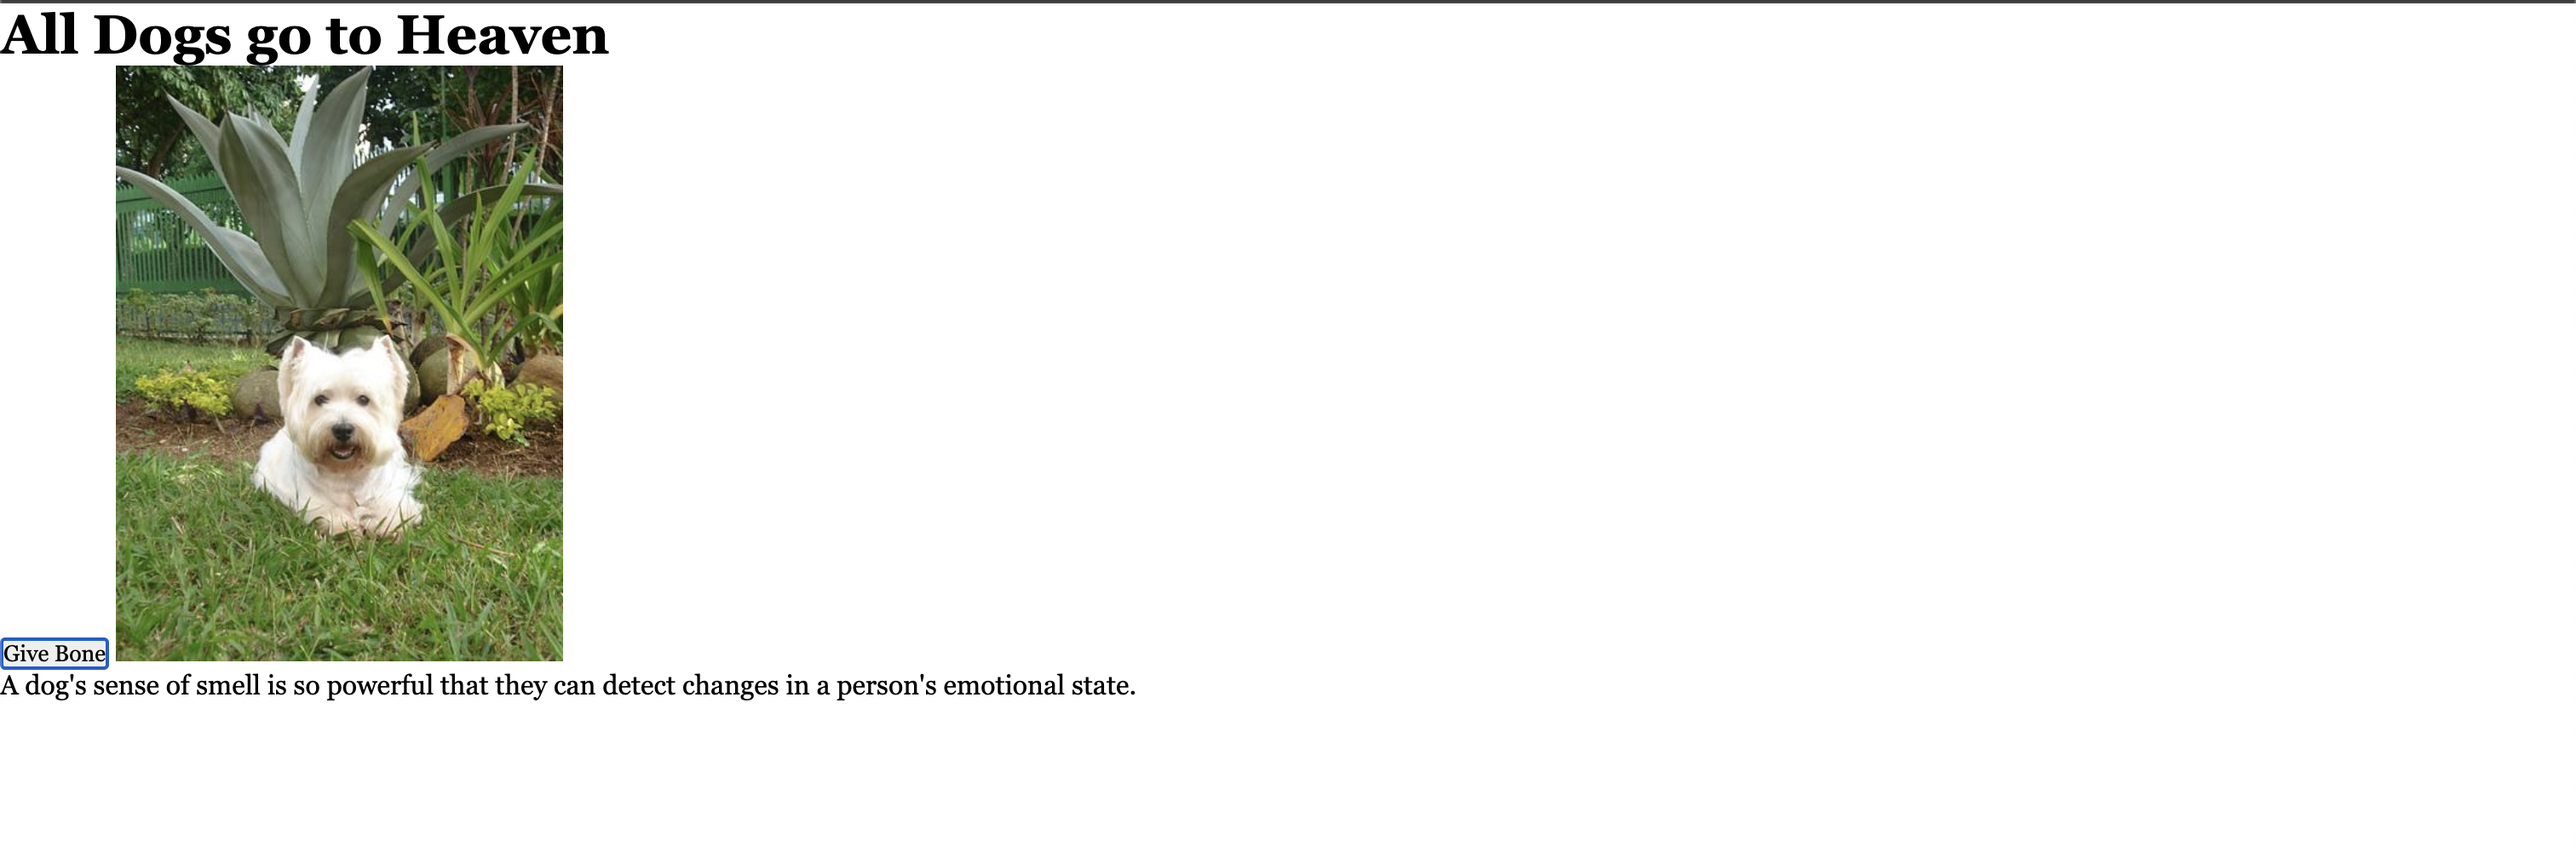
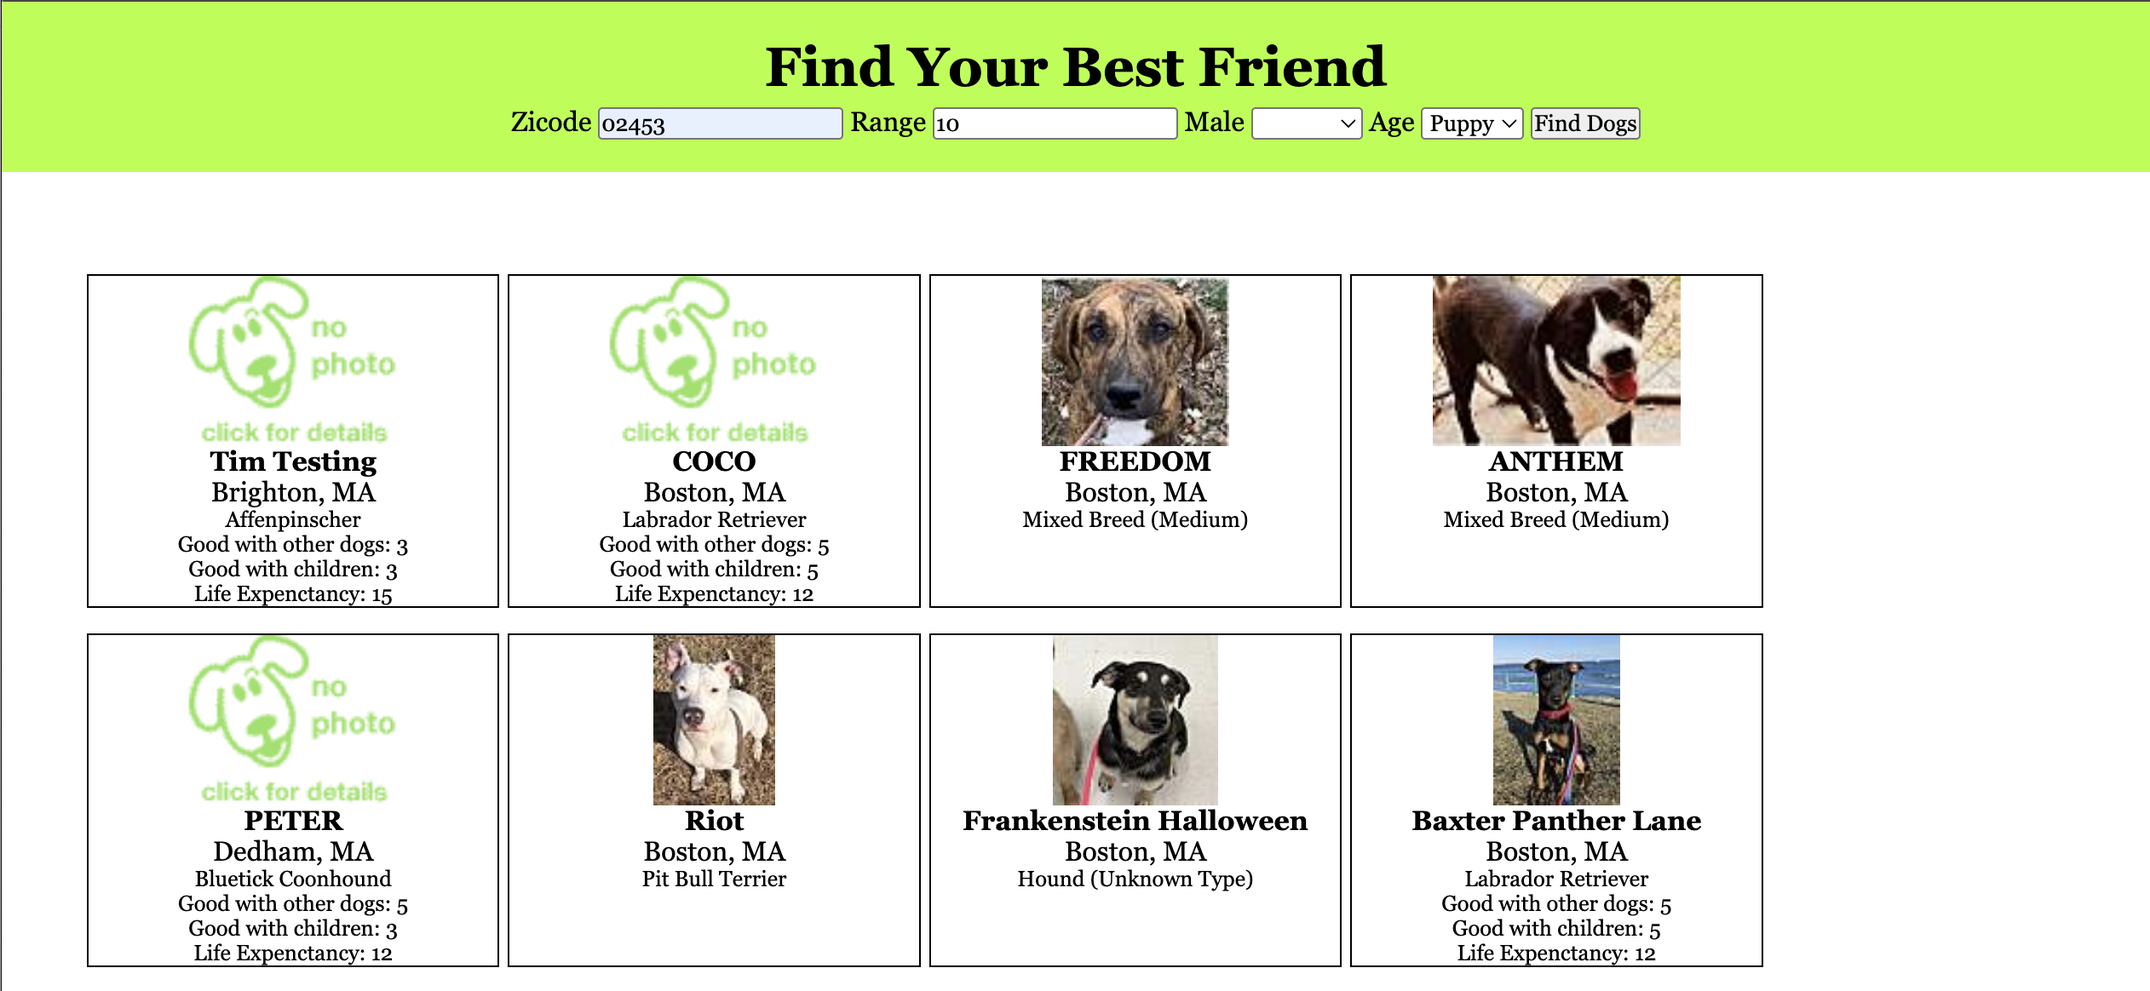
Update ReadMe pics

diff --git a/README.md b/README.md
@@ -3,8 +3,8 @@ This is a website I made to get a random dog image and a random fact about dogs
 
 **Link to project:** []
 
-![Complex NASA API](/images/Complex%20API.png)
-![Complex NASA API - Return](/images/Complex%20API%20-%20Result.png)
+![Complex API](/images/Complex%20API.png)
+![Complex API - Return](/images/Complex%20API%20-%20Result.png)
 
 ## How It's Made:
 
